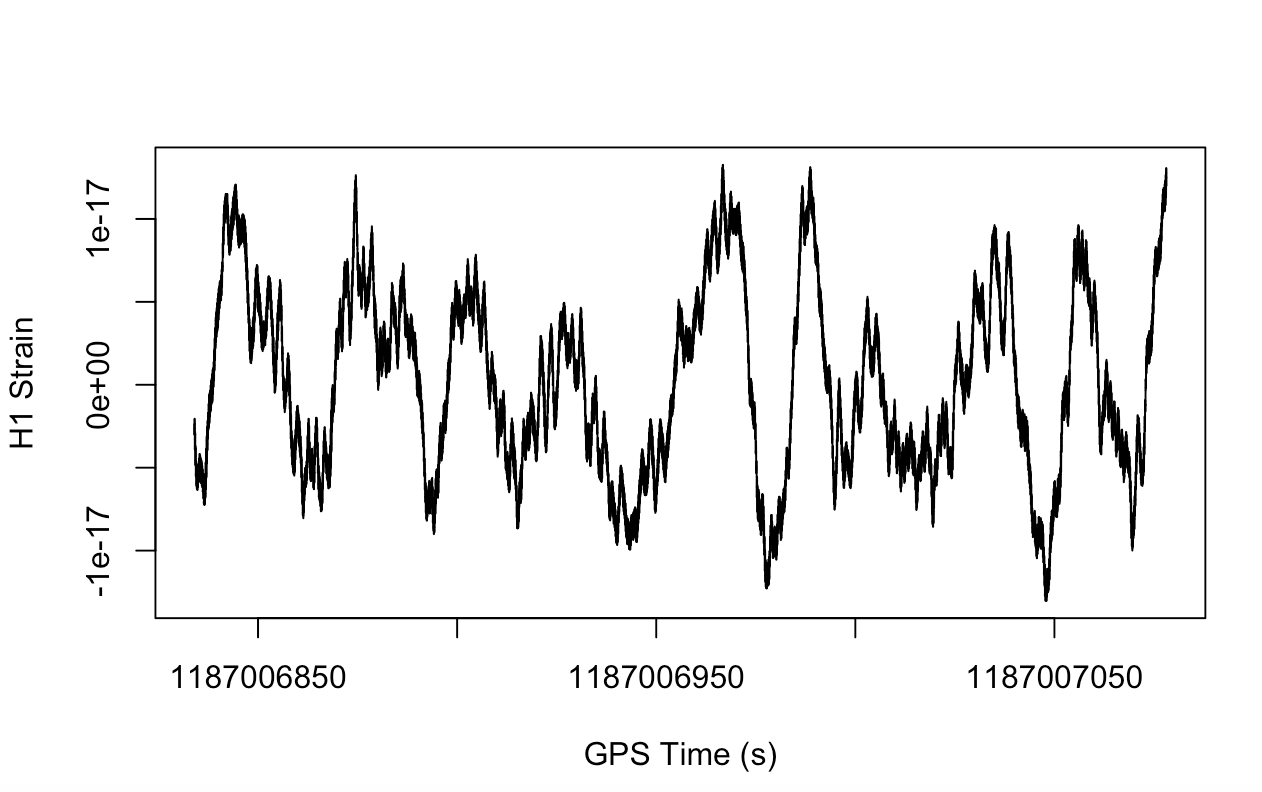
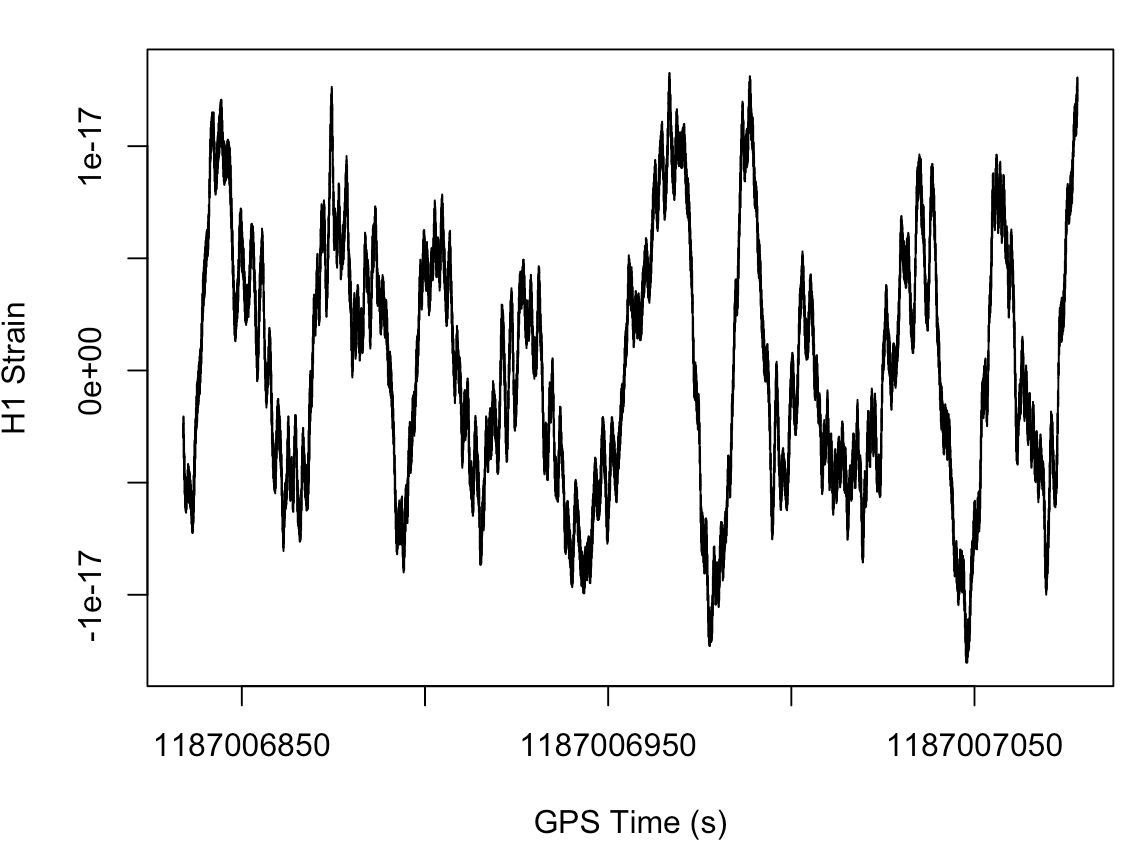
fixed Lab 4

diff --git a/Lab4.md b/Lab4.md
@@ -69,7 +69,7 @@ duration
 
 8.Створіть вектор з часу вимірів і збережіть у змінну myTime. Початок послідовності – gpsStart, кінець – gpsEnd, крок – st.
 ```r
->myTime<-c(gpsStart, gpsEnd, st)
+>myTime<-seq(gpsStart, gpsEnd, st)
 ```
 
 9.Побудуємо графік тільки для першого мільйону вимірів. Для цього створіть змінну numSamples, яка дорівнює 1000000.
